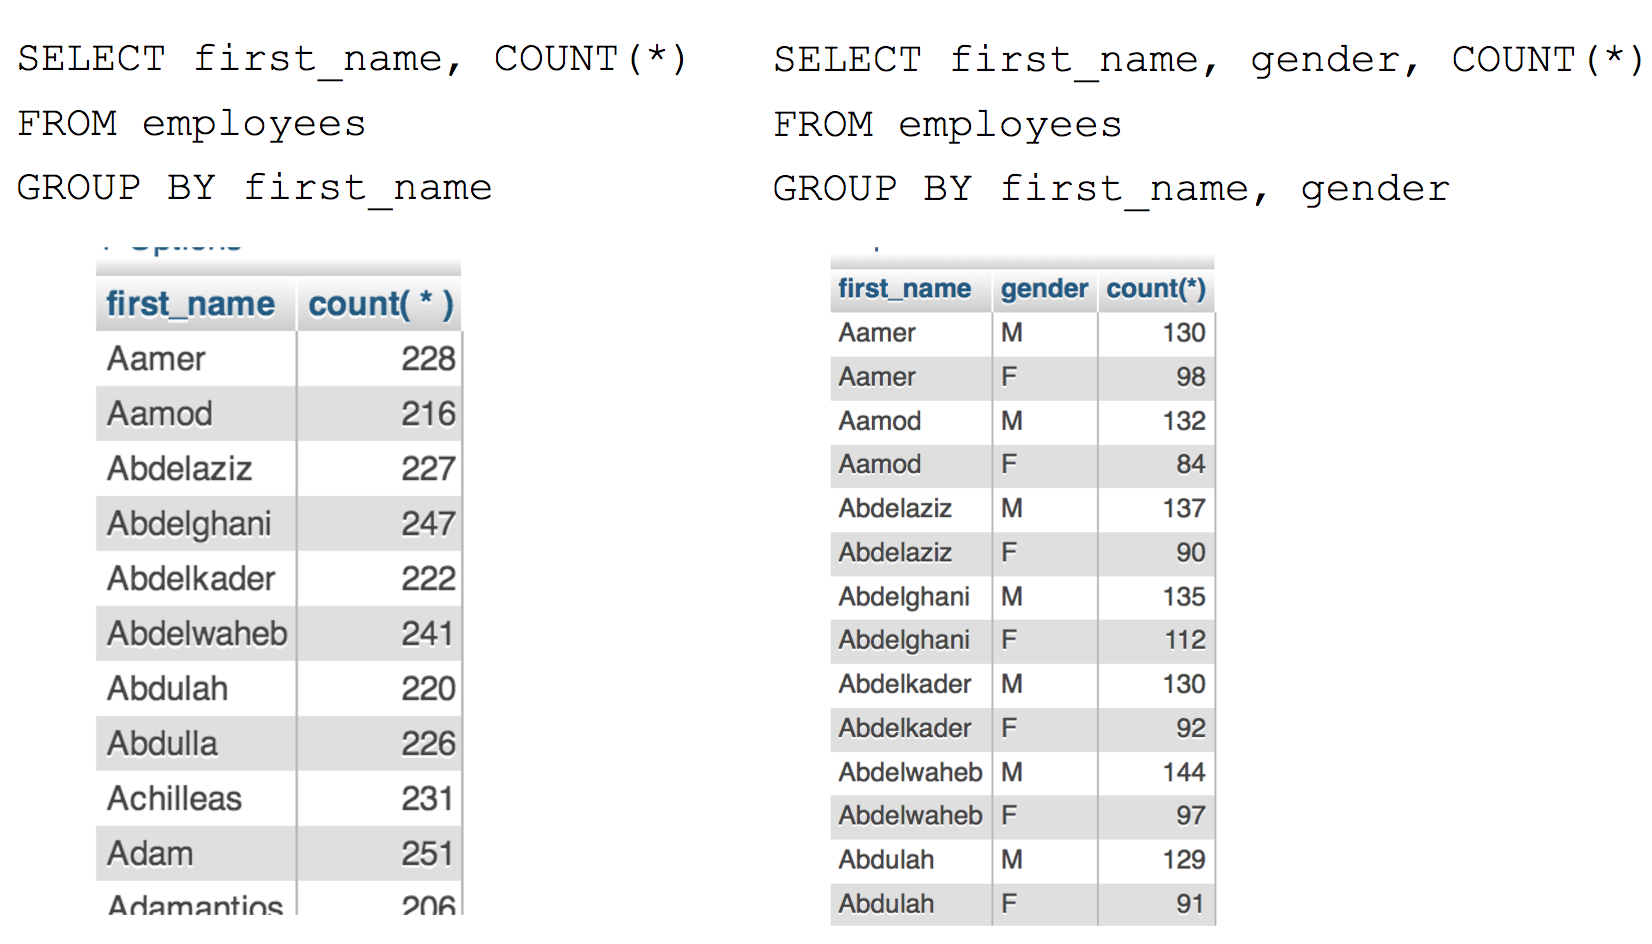
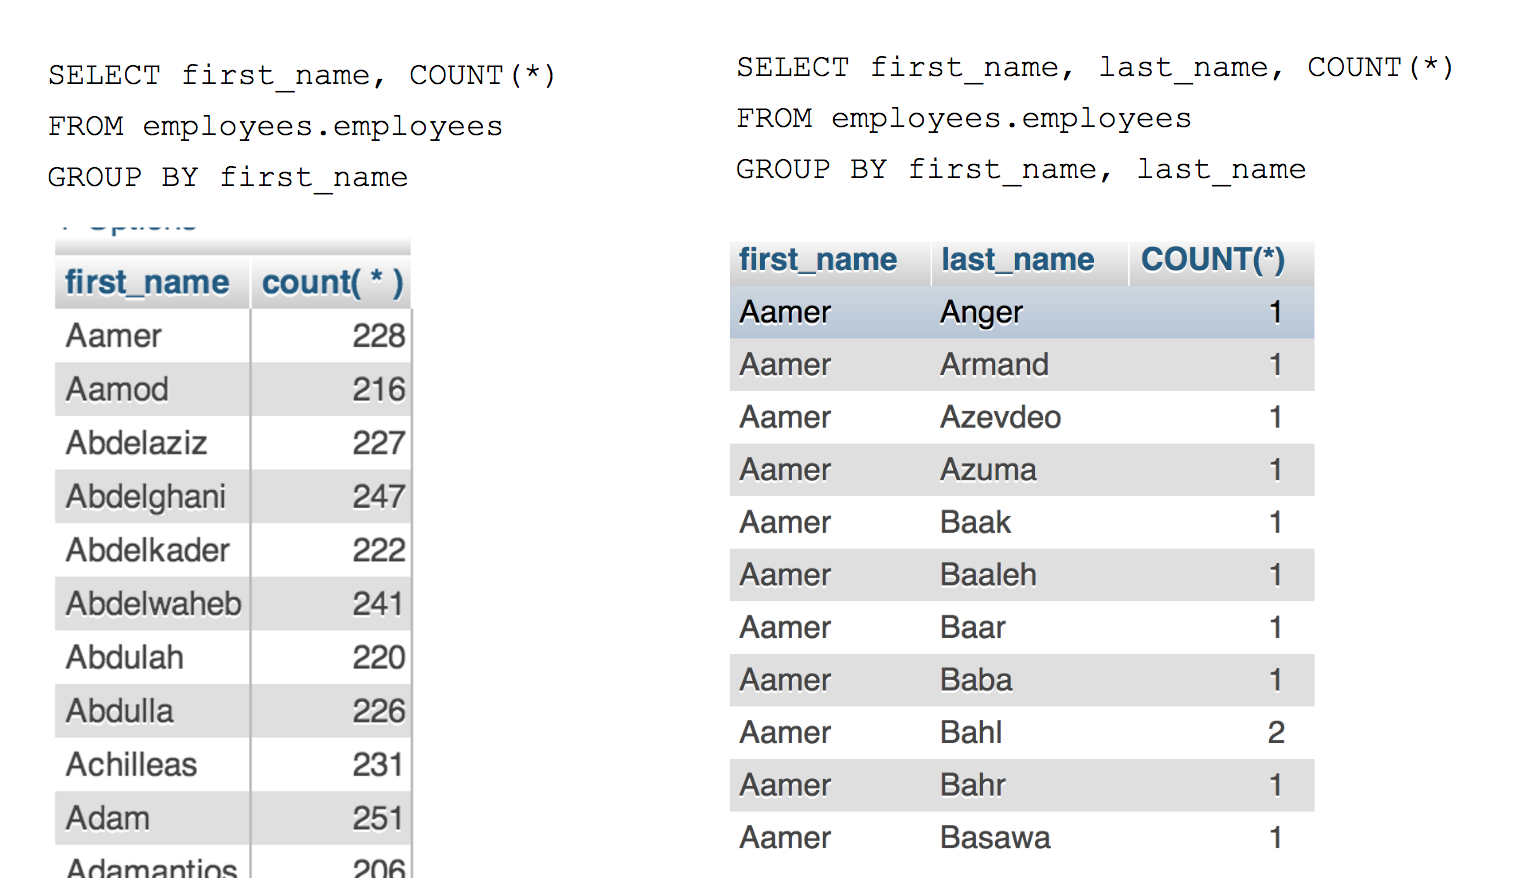
cleaning up sql syntax

diff --git a/index.html b/index.html
@@ -101,12 +101,10 @@
             <div class="slides">
                 <!-- Opening -->
                 <section>
-                    <p>
-                        wifi: network
-                    </p>
-                    <p>
-                        password: password
-                    </p>
+                    
+
+                    All slides on <a href="https://github.com/gdiphilly/intro-to-sql">GitHub</a>:
+                    https://github.com/gdiphilly/intro-to-sql
                     <h4>
                         <br>
 
@@ -163,8 +161,7 @@
                     <br>
                     <br>
                     <p>
-                        We're going to make a table out of this info in part 2, and the data will live here: <a href=
-                        "http://bit.ly/SQLTable">http://bit.ly/SQLTable</a>
+                        We're going to make a table out of this info in part 2, and the data will live here: [Table Link]
                     </p>
                 </section>
                 <section>
@@ -285,7 +282,7 @@
                                     </ul>
                                 </ul>
                                 <li class="c7">
-                                    <small>Optomizing queries</small>
+                                    <small>Optimizing queries</small>
                                 </li>
                                 <li>
                                     <small>Resoures and links</small>
@@ -388,13 +385,13 @@
                     <div class="c13">
                         <ul class="c12">
                             <li>
-                                <span class="c11">SELECT</span> user_name, sum(total_purchases)
+                                <span class="c11">SELECT</span> user_name, SUM(total_purchases)
                             </li>
                             <li>
                                 <span class="c11">FROM</span> billing_database.user_table
                             </li>
                             <li>
-                                <span class="c11">WHERE</span> user_name like 'Henderson%'
+                                <span class="c11">WHERE</span> user_name LIKE 'Henderson%'
                             </li>
                             <li>
                                 <span class="c11">AND</span> billing_month = 'January'
@@ -611,10 +608,10 @@
                     </p><br>
                     <div class="c23">
                         <p class="c22">
-                            Logon site: <a href="http://bit.ly/GdiSQL">http://bit.ly/GdiSQL</a>
+                            Logon site: [site]
                         </p>
                         <p class="c22">
-                            Your Password: <a href="http://bit.ly/GDIPHPLogin">http://bit.ly/GDIPHPLogin</a>
+                            Your Password: [password]
                         </p>
                     </div>
                 </section>
@@ -736,7 +733,7 @@ SELECT * FROM employees.salaries; </code></pre>
                     <p>
                         Now let's try selecting only certain columns
                     </p>
-                    <pre><code contenteditable="" class="sql">SELECT title, emp_no FROM titles; </code></pre>
+                    <pre><code contenteditable="" class="sql">SELECT title, emp_no FROM employees.titles; </code></pre>
                     <p>
                         A note about the semi-colon: you don't really need it, depending on which flavor of SQL you're using, but it's good
                         practice in general to include it. Like a period at the end of an English sentence.
@@ -754,10 +751,7 @@ SELECT * FROM employees.salaries; </code></pre>
                         Selecting multiple columns:
                     </p>
                     <pre><code contenteditable="" class="sql">SELECT emp_no, dept_no FROM employees.dept_emp;</code></pre>
-                    <p class="c30">
-                        Selecting everything from one table with an alias for that table (will come in handy later):
-                    </p>
-                    <pre><code contenteditable="" class="sql">SELECT a.* FROM employees.salaries a;</code></pre>
+                    
                 </section>
                 <section>
                     <h3>
@@ -827,18 +821,20 @@ SELECT * FROM employees.salaries; </code></pre>
                     <p>
                         Distinct: Selecting only unique instances
                     </p>
-                    <pre><code contenteditable="" class="sql">SELECT COUNT(title) FROM employees.titles;
-433,308
-                                </code></pre>
-                    <pre><code contenteditable="" class="sql">SELECT COUNT(*) FROM employees.salaries;
-2,844,047
-                                        </code></pre>
+
                     <p>
                         Which result set is bigger?
                     </p>
                     <p>
                         What is each one telling us?
                     </p>
+                    <pre><code contenteditable="" class="sql">SELECT COUNT(title) FROM employees.titles;
+433,308
+                                </code></pre>
+                    <pre><code contenteditable="" class="sql">SELECT COUNT(*) FROM employees.salaries;
+2,844,047
+                                        </code></pre>
+                    
                 </section>
                 <section>
                     <h3>
@@ -984,10 +980,10 @@ GROUP BY emp_no;
 GROUP BY dept_no;
 </code></pre>
                     <h6>
-                        How many people that were born on the same day, have the same first name, and same gender?
+                        How many people that were born on the same day, have the same first name?
                     </h6>
-                    <pre><code contenteditable="" class="sql">SELECT birth_date,first_name,gender, COUNT(*) FROM employees
-GROUP BY birth_date, first_name, gender;</code></pre>
+                    <pre><code contenteditable="" class="sql">SELECT birth_date,first_name, COUNT(*) FROM employees.employees
+GROUP BY birth_date, first_name;</code></pre>
                 </section>
                 <section>
                     <h3>
@@ -995,7 +991,7 @@ GROUP BY birth_date, first_name, gender;</code></pre>
                         maximum and minimum
                     </h3>
                     <p>
-                        When was your youngest employee born?
+                        When was your youngest employee born? (i.e. are you following labor laws?)
                     </p>
                     <pre><code contenteditable="" class="sql"> SELECT MAX(birth_date) FROM employees;</code></pre>
                     <div align="left">
@@ -1018,20 +1014,20 @@ GROUP BY title;</code></pre>
                     </p>
                     <pre><code contenteditable="" class="sql">
 SELECT first_name, gender, COUNT(*)
-FROM employees
+FROM employees.employees
 GROUP BY first_name, gender
 ORDER BY first_name;
 
 SELECT first_name, gender, COUNT(*)
-FROM employees
+FROM employees.employees
 GROUP BY first_name, gender
-order by first_name DESC;
+ORDER by first_name DESC;
 </code></pre>
                     <p class="c29">
                         Ordering by more than one column, will sort by the first, then by the second, ascending
                     </p>
                     <pre><code contenteditable="" class="sql">
-SELECT gender, birth_date FROM employees
+SELECT gender, birth_date FROM employees.employees
 ORDER BY gender, birth_date;
 </code></pre>
                 </section>
@@ -1042,14 +1038,14 @@ ORDER BY gender, birth_date;
                     <p class="c35">
                         Order by a number ascending
                     </p>
-                    <pre><code contenteditable="" class="sql">SELECT emp_no, salary FROM salaries
+                    <pre><code contenteditable="" class="sql">SELECT emp_no, salary FROM employees.salaries
 ORDER BY salary ASC;
 </code></pre>
                     <p class="c35">
                         Order by a number descending
                     </p>
                     <p class="c29"></p>
-                    <pre><code contenteditable="" class="sql">SELECT emp_no, salary FROM salaries
+                    <pre><code contenteditable="" class="sql">SELECT emp_no, salary FROM employees.salaries
 ORDER BY salary DESC;
 </code></pre>
                 </section>
@@ -1120,17 +1116,17 @@ ORDER BY salary DESC;
                     <p>
                         You only want to select certain things.
                     </p>
-                    <pre><code contenteditable="" class="sql">SELECT first_name, gender, COUNT(*)
-FROM employees
+                    <pre><code contenteditable="" class="sql">SELECT first_name, last_name, COUNT(*)
+FROM employees.employees
 WHERE first_name='Adam'
-GROUP BY first_name, gender;</code></pre>
+GROUP BY first_name, last_name;</code></pre>
                     <table class="c38">
                         <tr>
                             <th class="c36">
                                 first_name
                             </th>
                             <th class="c36">
-                                gender
+                                last_name
                             </th>
                             <th class="c36">
                                 COUNT(*)
@@ -1141,10 +1137,10 @@ GROUP BY first_name, gender;</code></pre>
                                 Adam
                             </td>
                             <td class="c37">
-                                M
+                                Alpin
                             </td>
                             <td class="c37">
-                                164
+                                1
                             </td>
                         </tr>
                         <tr>
@@ -1152,10 +1148,10 @@ GROUP BY first_name, gender;</code></pre>
                                 Adam
                             </td>
                             <td class="c37">
-                                F
+                                Alvarado
                             </td>
                             <td class="c37">
-                                87
+                                1
                             </td>
                         </tr>
                     </table>
@@ -1194,14 +1190,14 @@ GROUP BY last_name;</code></pre>
                         Where clause exercises
                     </h3>
                     <p>
-                        Only all people named mary
+                        Only all people named Mary
                     </p>
                     <pre><code contenteditable="" class="sql">SELECT * FROM employees
 WHERE first_name='Mary';</code></pre>
                     <p>
                         Only all of the engineers
                     </p>
-                    <pre><code contenteditable="" class="sql">SELECT * FROM titles
+                    <pre><code contenteditable="" class="sql">SELECT * FROM employees.titles
 WHERE title LIKE '%Engineer%';</code></pre>
                 </section>
                 <section>
@@ -1311,7 +1307,7 @@ WHERE title LIKE '%Engineer%';</code></pre>
                                     </ul>
                                 </ul>
                                 <li class="c7">
-                                    <small>Optomizing queries</small>
+                                    <small>Optimizing queries</small>
                                 </li>
                                 <li>
                                     <small>Resoures and links</small>
@@ -1364,8 +1360,8 @@ WHERE title LIKE '%Engineer%';</code></pre>
                         Find out salary history:
                     </p>
                     <pre><code contenteditable="" class="sql">SELECT first_name, last_name, hire_date,salary, from_date, to_date
-FROM employees a
-JOIN salaries b ON a.emp_no = b.emp_no</code></pre>
+FROM employees.employees a
+JOIN employees.salaries b ON a.emp_no = b.emp_no</code></pre>
                     <style type="text/css">
                     .tg  {border-collapse:collapse;border-spacing:0;}
                     .tg td{font-family:Arial, sans-serif;font-size:14px;padding:10px 5px;border-style:solid;border-width:1px;overflow:hidden;word-break:normal;}
@@ -1482,7 +1478,7 @@ JOIN salaries b ON a.emp_no = b.emp_no</code></pre>
                         Left join: All the fields in the first table, plus the ones that match in the second table
                     </p><br>
                     <pre><code contenteditable="" class="sql">SELECT first_name, last_name, hire_date,title, c.from_date, c.to_date
-FROM employees a
+FROM employees.employees a
 LEFT JOIN titles c ON a.emp_no = c.emp_no;</code></pre>
                     <p class="c44">
                         What if you'd done a right join instead?
@@ -1495,11 +1491,11 @@ LEFT JOIN titles c ON a.emp_no = c.emp_no;</code></pre>
                     <p class="c45">
                         What is this query telling us?
                     </p>
-                    <pre><code contenteditable="" class="sql">SELECT first_name, last_name,a.emp_no, hire_date, COUNT(
-DISTINCT title) , COUNT(DISTINCT salary)
-FROM employees a
-JOIN salaries b ON a.emp_no = b.emp_no
-JOIN titles c ON a.emp_no = c.emp_no
+                    <pre><code contenteditable="" class="sql">SELECT first_name, last_name,a.emp_no, hire_date, 
+COUNT(DISTINCT title) , COUNT(DISTINCT salary)
+FROM employees.employees a
+JOIN employees.salaries b ON a.emp_no = b.emp_no
+JOIN employees.titles c ON a.emp_no = c.emp_no
 where first_name like 'A%'
 GROUP BY first_name, last_name, hire_date,a.emp_no;</code></pre><img src="img/all-in-table.png" alt="All in table">
                 </section>
@@ -1512,8 +1508,8 @@ GROUP BY first_name, last_name, hire_date,a.emp_no;</code></pre><img src="img/al
                     </p>
                     <pre><code contenteditable="" class="sql">SELECT first_name, last_name,hire_date,a.emp_no, salary, from_date as
 salary_start_date, to_date AS salary_end_date
-FROM employees a
-JOIN salaries b ON a.emp_no = b.emp_no
+FROM employees.employees a
+JOIN employees.salaries b ON a.emp_no = b.emp_no
 WHERE salary &gt;60000
 AND from_date &gt;'2000-01-01'
 ORDER BY last_name</code></pre>
@@ -1561,18 +1557,20 @@ ORDER BY last_name</code></pre>
                         <li>How many employees do we have?
                         </li>
                         <pre><code contenteditable="" class="sql">SELECT COUNT(DISTINCT emp_no)
-FROM employees;</code></pre>
+FROM employees.employees;</code></pre>
                         <li>How many people got raises in 1999?
                         </li>
                         <pre><code contenteditable="" class="sql"> SELECT * from (
-        SELECT emp_no, count(*) AS number_of_salaries FROM salaries
+        SELECT emp_no, COUNT(*) AS number_of_salaries 
+        FROM salaries
         WHERE from_date&gt;'1998-01-01'
         AND from_date&lt;'2000-01-01'
         GROUP BY emp_no) a
         WHERE number_of_salaries &gt;1</code></pre>
                         <li>What's the most common job title we have?
                         </li>
-                        <pre><code contenteditable="" class="sql">SELECT title, COUNT(DISTINCT a.emp_no) FROM titles a
+                        <pre><code contenteditable="" class="sql">SELECT title, COUNT(DISTINCT a.emp_no) 
+FROM titles a
 JOIN employees b
 ON a.emp_no=b.emp_no
 GROUP BY title</code></pre>
@@ -2338,7 +2336,7 @@ varchar(4) after times_watched;</code></pre>
                         vickiboykis.com | @vboykis
                     </p>
                     <p>
-                        <a href="http://bit.ly/gdi-sql" target="_blank">http://bit.ly/gdi-sql</a>
+                        <a href="http://bit.ly/gdi-sql-2" target="_blank">http://bit.ly/gdi-sql-2</a>
                     </p>
                 </section>
 
@@ -2346,6 +2344,7 @@ varchar(4) after times_watched;</code></pre>
                   <h3> Thank you to the following people: </h3>
                       <p>
                     <a href = "http://www.saracanfield.com/">Sarah Canfield</a> - converting slides to Reveal
+                    <a href = "https://github.com/aelavender/">A.E.Lavender</a> - Sanity and syntax checks
                   </p>
                 </section>
             </div>
